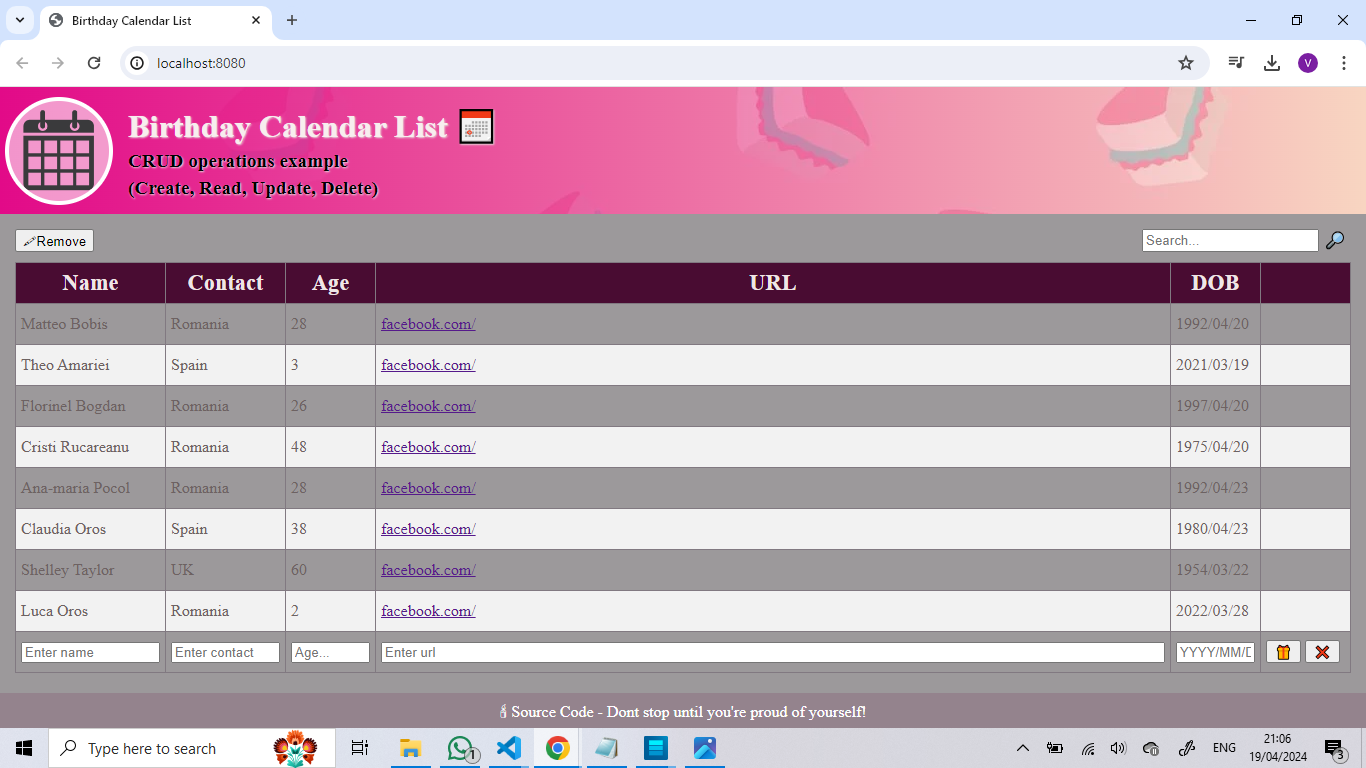
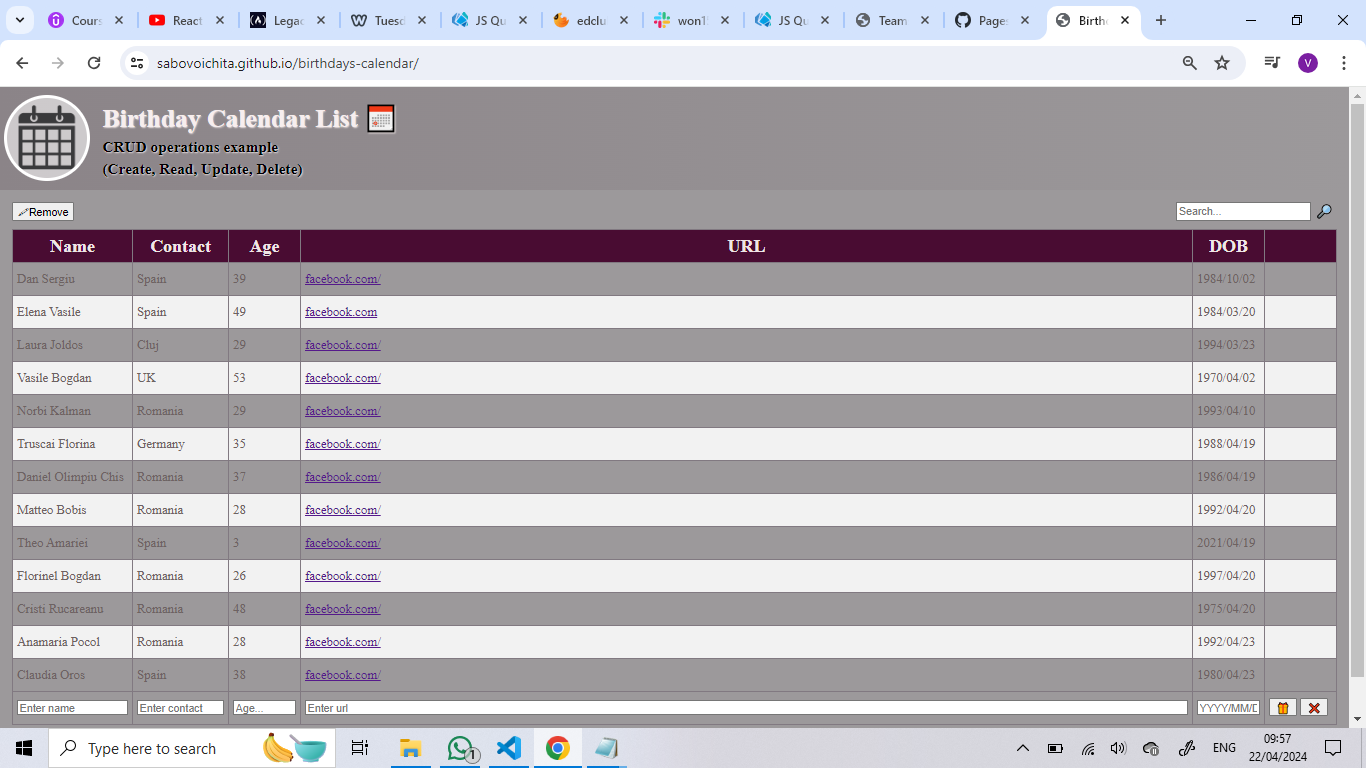
update live link and picture in readme

diff --git a/README.md b/README.md
@@ -1,8 +1,8 @@
-# live link[Birthdays-Calendar-List](https://sabovoichita.github.io/Birthdays-Calendar-List/)
-
 # 💌 Birthdays-Calendar-List
 
 A Birthday Calendar List to store all important information (name, contact, age, url, DOB).
+
+[link](https://sabovoichita.github.io/birthdays-calendar/)
 
 ## 🎂 Features and Usage
 
@@ -26,7 +26,8 @@ A Birthday Calendar List to store all important information (name, contact, age,
 - [ ] add live links!
 
 ##Live Preview
-![Preview](images/Preview.png)
+
+![Preview](images/preview.png)
 
 ## ‼ Start (Daily usage)
 
